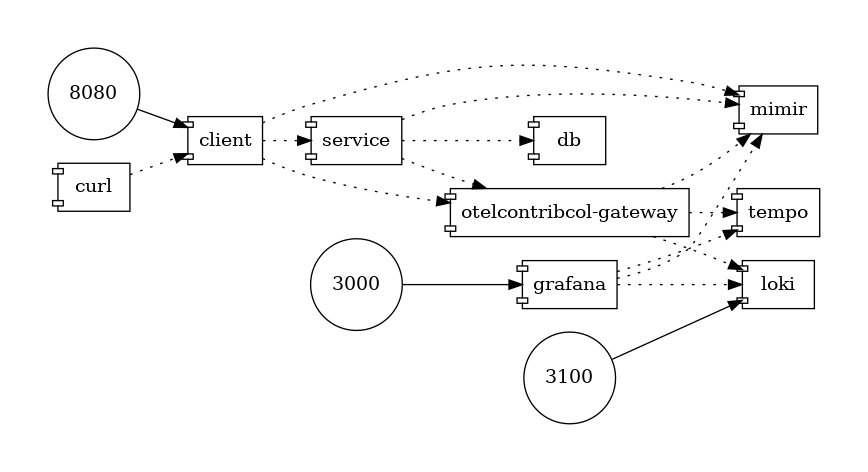
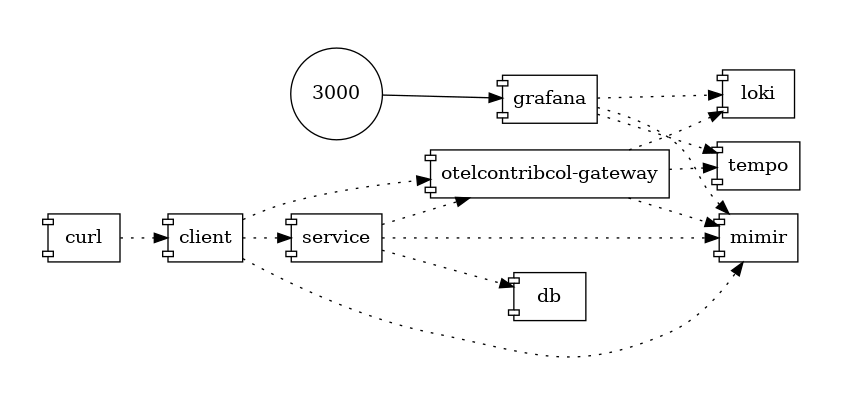
feat: add agent mode

diff --git a/2024-01-XX_GrafanaLab_demo/README.md b/2024-01-XX_GrafanaLab_demo/README.md
@@ -27,7 +27,7 @@ As an example, by clicking or errors, it can be easy to switch to get correspond
 ![traces](./traces.png)
 ![trace](./trace.png)
 
-## Traces Tail Sampling
+## Traces Sampling: Head vs Tail sampling
 This demo uses tail sampling introduced during the last [Tail sampling post](../2023-11-30_What_is_OpenTelemetry/README.md#tail-sampling).
 
 By default, head sampling is used to decided the percentage of the traffic that should be traced.
@@ -41,40 +41,50 @@ Tail sampling has been setup with [opentelemetry collector contrib](https://gith
 
 Again, when tracing error, it become important to avoid tracing 4XX errors when it is not useful or important.
 
-## Standard dashboards
+## Instrumentations
+A dedicated [post section](../2023-11-30_What_is_OpenTelemetry/README.md#instrumentation) has been introduced during the [last post](../2023-11-30_What_is_OpenTelemetry/README.md#instrumentation).
 
-Along this demo, 2 dashboards has been built:
+Having a telemetry backends is not the only one requirement to support observability: instrumentations are really important to get telemetry metrics, logs and traces.
 
+Having standard instrumentation really helps opensource projects to give a fully integrated service including observability and monitoring.
 
-## logs
-references: 
-- https://opentelemetry.io/docs/specs/otel/logs/#direct-to-collector
-- https://github.com/open-telemetry/opentelemetry-java-examples/tree/main/spring-native
-- https://opentelemetry.io/docs/languages/java/automatic/spring-boot/
-- https://github.com/grafana/grafana-opentelemetry-starter/blob/main/build.gradle
-- https://github.com/spring-projects/spring-boot/issues/37278
-- https://github.com/open-telemetry/opentelemetry-java/blob/main/sdk-extensions/autoconfigure/README.md
+As opposed, having to much telemetry can be costly, that is why it is important to choose instrumented middleware when using [automatic instrumentation](../2023-11-30_What_is_OpenTelemetry/README.md#automatic)
 
-## OTEL > LOKI labels mapping
+## Collectors
+References: https://opentelemetry.io/docs/collector/deployment/
+
+OpenTelemetry offers different ways to integrate a collector. The official [OpenTelemetry Collector](https://github.com/open-telemetry/opentelemetry-collector) can be forked or partially used to build a different one like the [Grafana Agent](https://grafana.com/docs/agent/latest/) or simply the enhanced like [OpenTelemetry Collector Contrib](https://github.com/open-telemetry/opentelemetry-collector-contrib) which has been used during the [demo](./demo/README.md).
+
+SDK also offers exporters which is the [No Collector](https://opentelemetry.io/docs/collector/deployment/no-collector/) mode.
+
+3 different ways are available to deploy a collector: [No Collector](https://opentelemetry.io/docs/collector/deployment/no-collector/), [Agent](https://opentelemetry.io/docs/collector/deployment/agent/), [Gateway](https://opentelemetry.io/docs/collector/deployment/gateway/).
+
+[No Collector](https://opentelemetry.io/docs/collector/deployment/no-collector/) and [Gateway](https://opentelemetry.io/docs/collector/deployment/gateway/) has been used during the demo.
+
+The [No Collector](https://opentelemetry.io/docs/collector/deployment/no-collector/) can help to support observability in short lived tasks (like Function As A Service, ...) while [Gateway](https://opentelemetry.io/docs/collector/deployment/gateway/) can help to introduce [Tail Sampling](./README.md#traces-sampling-head-vs-tail-sampling) and avoid loosing telemetry data when [No Collector](https://opentelemetry.io/docs/collector/deployment/no-collector/) is used.
+
+The agent monitoring is also important and the gateway has been instrumented and dashboard has also been provisionned in the [demo](./demo/README.md)
+
+## Telemetry Queries
+Having well instrumented middlewares/libraries available without a proper/common way to query and build dashboard is annoying.
+
+This is why Grafana Labs has been smart to integrate Mimir (Previously Cortex) compatible with [Graphite](../2023-12-07_Meet_Graphite/README.md) and [PromQL](https://prometheus.io/docs/prometheus/latest/querying/basics/).
+
+Grafana Labs push really hard to integrate PromQL like query models inside their products like Loki(LogQL) and Tempo (TraceQL) for instance.
+
+## Dashboard templates
+
+What a nightmare to monitor same kind of application but with different ways and tools. At some point, when using micro services at scale, it becomes important to have the same approach for the same problems. Building dashboard templates increase the culture and the Grafana Labs dashboard is a good place to share.
+
+Along the [demo](./demo/README.md), 2 dashboards has been published to Grafana Labs dashboard:
+- https://grafana.com/grafana/dashboards/20352-opentelemetry-jvm-micrometer/
+- https://grafana.com/grafana/dashboards/20353-opentelemetry-jvm-micrometer-per-instance/
+
+Those dashboard are provisionned in the [demo](./demo/README.md).
+
+## Sidenotes
+### OTEL > LOKI labels mapping
 References: https://github.com/grafana/loki/blob/main/docs/sources/send-data/otel/_index.md
 
-TODO PR to add service.version: https://github.com/grafana/loki/blob/de251c3fc2cbd3e9de8d19bd986680c2b99c88bc/pkg/loghttp/push/otlp.go#L31
+OTLP support from loki is quite recent, during the demo, the service.version label is skipped according to this [allow listed labels](https://github.com/grafana/loki/issues/11786)
 
-
-## java agent 2
-https://github.com/open-telemetry/opentelemetry-java-instrumentation/releases/tag/v2.0.0
-
-# Correlation and naming conventions are important
-
-# otel resource conventions
-https://opentelemetry.io/docs/specs/semconv/resource/
-
-# metric naming conventions
-https://opentelemetry.io/docs/specs/semconv/general/metrics/
-
-
-## Maven build info to get version
-https://github.com/open-telemetry/opentelemetry-java-instrumentation/pull/9480
-
-## live demo
-<iframe width="1920" height="1080" src="https://www.youtube.com/embed/Hrq4-HouO-s?si=vDB68ywkS0UddXai" title="GrafanaCon CFP demo" frameborder="0" allow="accelerometer; autoplay; clipboard-write; encrypted-media; gyroscope; picture-in-picture; web-share" allowfullscreen></iframe>

diff --git a/2024-01-XX_GrafanaLab_demo/SIDENOTES.md b/2024-01-XX_GrafanaLab_demo/SIDENOTES.md
@@ -1,0 +1,25 @@
+## logs
+references: 
+- https://opentelemetry.io/docs/specs/otel/logs/#direct-to-collector
+- https://github.com/open-telemetry/opentelemetry-java-examples/tree/main/spring-native
+- https://opentelemetry.io/docs/languages/java/automatic/spring-boot/
+- https://github.com/grafana/grafana-opentelemetry-starter/blob/main/build.gradle
+- https://github.com/spring-projects/spring-boot/issues/37278
+- https://github.com/open-telemetry/opentelemetry-java/blob/main/sdk-extensions/autoconfigure/README.md
+
+
+TODO PR to add service.version: https://github.com/grafana/loki/blob/de251c3fc2cbd3e9de8d19bd986680c2b99c88bc/pkg/loghttp/push/otlp.go#L31
+
+## java agent 2
+https://github.com/open-telemetry/opentelemetry-java-instrumentation/releases/tag/v2.0.0
+
+# Correlation and naming conventions are important
+
+# otel resource conventions
+https://opentelemetry.io/docs/specs/semconv/resource/
+
+# metric naming conventions
+https://opentelemetry.io/docs/specs/semconv/general/metrics/
+
+## Maven build info to get version
+https://github.com/open-telemetry/opentelemetry-java-instrumentation/pull/9480

diff --git a/2024-01-XX_GrafanaLab_demo/demo/README.md b/2024-01-XX_GrafanaLab_demo/demo/README.md
@@ -4,10 +4,22 @@
 
 Security, scalling and so on will not be introduced and GrafanaCloud offers the best experience and a no brainer solution to start with.
 
-## run it
+## Architecture
+
+This demo include 2 java services and a postgres database to use webserver and jdbc instrumentations.
+
+[OpenTelemetry Collector Contrib](https://github.com/open-telemetry/opentelemetry-collector-contrib) has been used as a [gateway](https://opentelemetry.io/docs/collector/deployment/gateway/)
 
 ![docker compose services](./docker-compose.png)
 
+
+## Run locally
+
+### Run the docker compose
 ```bash
 ./up.sh
 ```
+
+## Run Grafana
+Open dashboard: http://localhost:3000
+
